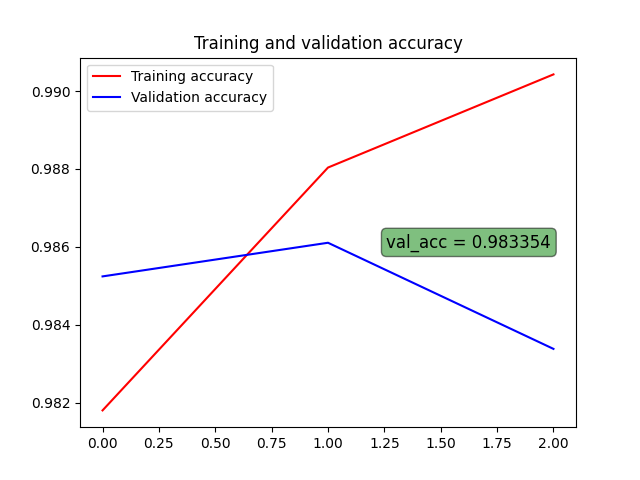
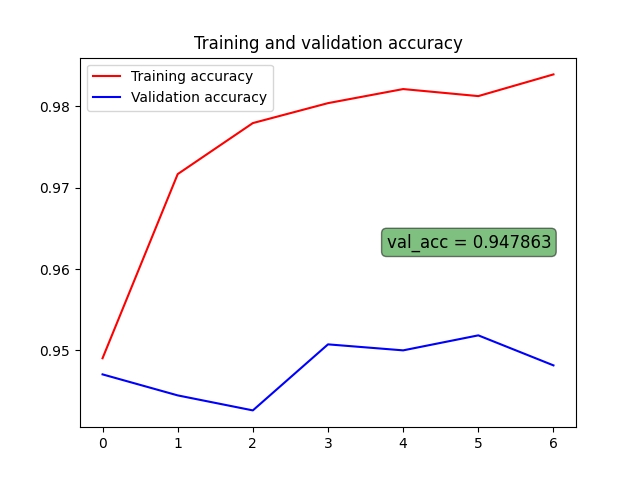
Transfer Learning bug solved, now sliding windows development initiated

diff --git a/SlidingWindowsAlgorithm/sliding_windows.py b/SlidingWindowsAlgorithm/sliding_windows.py
@@ -1,40 +1,45 @@
-from tensorflow.keras.applications.resnet50 import preprocess_input, decode_predictions
+from matplotlib import pyplot as plt
 from tensorflow.keras.preprocessing import image
 import numpy as np
 import os
 
 
-def sliding_windows(model, input_size=(150, 150)):
+def sliding_windows(model_name, model, input_size=(150, 150), show=False):
+    file = open(model_name + '.txt', 'a')
+
     for c in os.listdir('./dataset/validation'):
-        none_counter = 0
         for im in os.listdir('./dataset/validation/' + c):
             img_path = './dataset/validation/' + c + '/' + im
             img = image.load_img(img_path, target_size=input_size)
-            img_array = image.img_to_array(img)
-            img_batch = np.expand_dims(img_array, axis=0)
-            img_preprocessed = preprocess_input(img_batch)
-            prediction = model.predict(img_preprocessed)
-            prediction = prediction[0]
-            # print('Expected: [' + c[:-1] + '] ->')
-            if prediction[0]:
-                print('Prediction: [car]')
-            elif prediction[1]:
-                print('Prediction: [forbid_signal]')
-            elif prediction[2]:
-                print('Prediction: [moto]')
-            if prediction[3]:
-                print('Prediction: [none]')
-                # none_counter += 1
-            elif prediction[4]:
-                print('Prediction: [pedestrian]')
-            elif prediction[5]:
-                print('Prediction: [stop_signal]')
-            elif prediction[6]:
-                print('Prediction: [truck]')
-            elif prediction[7]:
-                print('Prediction: [warning_signal]')
-            elif prediction[8]:
-                print('Prediction: [yield_signal]')
+            img_tensor = image.img_to_array(img)
+            img_tensor = np.expand_dims(img_tensor, axis=0)
+            img_tensor /= 255
 
-        # correct = len(os.listdir('./dataset/validation/' + c)) - none_counter
-        # print('Number of ' + str(c) + ' classified correctly: [' + str(correct) + ']')
+            if show:
+                plt.imshow(img_tensor[0])
+                plt.axis('off')
+                plt.show()
+
+            prediction = model.predict(img_tensor)
+            prediction_idx = np.argmax(prediction[0])
+            file.write('Expected: [' + c[:-1] + '] -> ')
+            if prediction_idx == 0:
+                file.write('Prediction: [car]\n')
+            elif prediction_idx == 1:
+                file.write('Prediction: [forbid_signal]\n')
+            elif prediction_idx == 2:
+                file.write('Prediction: [moto]\n')
+            if prediction_idx == 3:
+                file.write('Prediction: [none]\n')
+            elif prediction_idx == 4:
+                file.write('Prediction: [pedestrian]\n')
+            elif prediction_idx == 5:
+                file.write('Prediction: [stop_signal]\n')
+            elif prediction_idx == 6:
+                file.write('Prediction: [truck]\n')
+            elif prediction_idx == 7:
+                file.write('Prediction: [warning_signal]\n')
+            elif prediction_idx == 8:
+                file.write('Prediction: [yield_signal]\n')
+
+    file.close()

diff --git a/main.py b/main.py
@@ -28,52 +28,65 @@ if __name__ == '__main__':
     dnn = None
     model_ver = None
     spe = True
+    i_size = None
 
     # Instantiate a custom DNN to train
     if args.dnn == 'MCNA':
+        i_size = (150, 150)
         dnn = MultiClassClassifierNoAugmentation()  # Instantiate HERE
         model_ver = 'v1'
     elif args.dnn == 'MCA':
         dnn = MultiClassClassifierAugmentation()
         model_ver = 'v1'
     elif args.dnn == 'MCA-v1-150x150':
-        dnn = MultiClassClassifierAugmentation(i_size=(150, 150))
+        i_size = (150, 150)
+        dnn = MultiClassClassifierAugmentation(i_size=i_size)
         model_ver = 'v1'
         spe = False
     elif args.dnn == 'MCA-v1-150x150-spe':
-        dnn = MultiClassClassifierAugmentation(i_size=(150, 150))
+        i_size = (150, 150)
+        dnn = MultiClassClassifierAugmentation(i_size=i_size)
         model_ver = 'v1'
         spe = True
     elif args.dnn == 'MCA-v1-224x224':
-        dnn = MultiClassClassifierAugmentation(i_size=(224, 224))
+        i_size = (224, 224)
+        dnn = MultiClassClassifierAugmentation(i_size=i_size)
         model_ver = 'v1'
         spe = False
     elif args.dnn == 'MCA-v1-224x224-spe':
-        dnn = MultiClassClassifierAugmentation(i_size=(224, 224))
+        i_size = (224, 224)
+        dnn = MultiClassClassifierAugmentation(i_size=i_size)
         model_ver = 'v1'
         spe = True
     elif args.dnn == 'MCA-v2-150x150':
-        dnn = MultiClassClassifierAugmentation(i_size=(150, 150))
+        i_size = (150, 150)
+        dnn = MultiClassClassifierAugmentation(i_size=i_size)
         model_ver = 'v2'
         spe = False
     elif args.dnn == 'MCA-v2-150x150-spe':
-        dnn = MultiClassClassifierAugmentation(i_size=(150, 150))
+        i_size = (150, 150)
+        dnn = MultiClassClassifierAugmentation(i_size=i_size)
         model_ver = 'v2'
         spe = True
     elif args.dnn == 'MCA-v2-224x224':
-        dnn = MultiClassClassifierAugmentation(i_size=(224, 224))
+        i_size = (224, 224)
+        dnn = MultiClassClassifierAugmentation(i_size=i_size)
         model_ver = 'v2'
         spe = False
     elif args.dnn == 'MCA-v2-224x224-spe':
-        dnn = MultiClassClassifierAugmentation(i_size=(224, 224))
+        i_size = (224, 224)
+        dnn = MultiClassClassifierAugmentation(i_size=i_size)
         model_ver = 'v2'
         spe = True
     elif args.dnn == 'VGG16':
+        i_size = (224, 224)
         dnn = MultiClassClassifierVGG16(num_classes=9)
     elif args.dnn == 'InceptionV3_TL':
         dnn = MultiClassClassifierInceptionV3TransferLearning()
+        i_size = (150, 150)
     elif args.dnn == 'ResNet50_TL':
         dnn = MultiClassClassifierResNet50TransferLearning()
+        i_size = (224, 224)
     else:
         raise ValueError('Wrong DNN type :(')
 
@@ -118,4 +131,4 @@ if __name__ == '__main__':
                 file.close()
 
         if args.sliding_windows == 'YES':
-            sliding_windows(dnn, input_size=(224, 224))
+            sliding_windows(args.dnn, dnn, input_size=i_size)

diff --git a/DeepLearningUtilities/data_preprocessing.py b/DeepLearningUtilities/data_preprocessing.py
@@ -17,6 +17,8 @@ class DataPreprocessing:
         self.none_class_path = 'D:\\DatasetTFG\\train\\none2'
         self.dataset_origin = 'D:\DatasetTFG\dataset2'
         self.dataset_dest = 'D:\DatasetTFG\dataset'
+        self.training = 'D:\\DatasetTFG\\dataset\\train\\none'
+        self.validation = 'D:\\DatasetTFG\\dataset\\validation\\none'
 
     def dataset_preparation(self):
         if not os.path.isdir('D:\\DatasetTFG\\cropped_train'):
@@ -110,34 +112,25 @@ class DataPreprocessing:
                     print(actual_images[i][:-4], 'was correctly saved into', c)
                     class_indexes[c] += 1
 
+    def reformat_none_class(self):
+        # 6000 none to training and 2000 none to validation
+        target_train = 6000
+        target_validation = 2000
+
+        # Build up a new none dataset batch for training from taking random images from source none
+        for t in range(target_train):
+            random_file = random.choice(os.listdir(self.training))
+            print(random_file)
+            img = cv2.imread(self.training + '/' + random_file)
+            cv2.imwrite(os.path.join('D:\\DatasetTFG\\nonet' + '/' + random_file), img)
+
+        for v in range(target_validation):
+            random_file = random.choice(os.listdir(self.validation))
+            print(random_file)
+            img = cv2.imread(self.validation + '/' + random_file)
+            cv2.imwrite(os.path.join('D:\\DatasetTFG\\nonev' + '/' + random_file), img)
+
 
 if __name__ == '__main__':
     dataset_preprocessor = DataPreprocessing()
-    # dataset_preprocessor.dataset_set_up()
-
-
-# zip_data_path = "../dataframe.zip"
-# zip_ref = zipfile.ZipFile(zip_data_path, 'r')
-# os.mkdir("./data_management_tmp")
-# zip_ref.extractall('./data_management_tmp')
-# zip_ref.close()
-#
-# print("Number of car images:", len(os.listdir('./data_management_tmp/RoadImages/Cars/')))
-# print("Number of truck images:", len(os.listdir('./data_management_tmp/RoadImages/Trucks/')))
-# print("Number of motorbike images:", len(os.listdir('./data_management_tmp/RoadImages/Motorbikes/')))
-# print("Number of crosswalk images:", len(os.listdir('./data_management_tmp/RoadImages/Crosswalks/')))
-#
-# try:
-#     os.mkdir("./RoadClassifier")
-#     os.mkdir("./RoadClassifier/training")
-#     os.mkdir("./RoadClassifier/validation")
-#     os.mkdir("./RoadClassifier/training/cars")
-#     os.mkdir("./RoadClassifier/training/trucks")
-#     os.mkdir("./RoadClassifier/training/motorbikes")
-#     os.mkdir("./RoadClassifier/training/crosswalks")
-#     os.mkdir("./RoadClassifier/validation/cars")
-#     os.mkdir("./RoadClassifier/validation/trucks")
-#     os.mkdir("./RoadClassifier/validation/motorbikes")
-#     os.mkdir("./RoadClassifier/validation/crosswalks")
-# except OSError:
-#     pass
+    dataset_preprocessor.reformat_none_class()

diff --git a/MultiClassClassifier/multiclass_classifier_ResNet50_transferlearning.py b/MultiClassClassifier/multiclass_classifier_ResNet50_transferlearning.py
@@ -16,7 +16,6 @@ class MultiClassClassifierResNet50TransferLearning:
         self.train_generator = None
         self.validation_generator = None
         self.model = None
-        self.local_weights_file = './inceptionv3_weights/inception_v3_weights_tf_dim_ordering_tf_kernels_notop.h5'
 
         t_len = 0
         for d in os.listdir(t_path):
@@ -76,26 +75,37 @@ class MultiClassClassifierResNet50TransferLearning:
                                      validation_data=self.validation_generator,
                                      validation_steps=self.val_length // self.batch_size,
                                      callbacks=[
-                                         ModelCheckpoint('./models2/multiclass_transferlearning_resnet50_save.h5',
+                                         ModelCheckpoint('./models_TL/multiclass_transferlearning_resnet50_saveweights.h5',
                                                          monitor='val_loss',
                                                          mode='min',
                                                          save_best_only=True,
+                                                         save_weights_only=True,
                                                          verbose=1),
                                          EarlyStopping(
                                              monitor='val_loss',
                                              mode='min',
-                                             patience=2,
-                                             min_delta=0.005,
+                                             patience=10,
+                                             min_delta=0.0005,
                                              verbose=1)
                                          ])
+
+        model_json_architecture = self.model.to_json()
+        with open('./models_TL/multiclass_transferlearning_resnet50.json', 'w') as json_file:
+            json_file.write(model_json_architecture)
 
         return history
 
     def evaluate(self):
         return self.model.evaluate(self.validation_generator)
 
+    def load_model_111(self):
+        self.model = tf.keras.models.load_model('./models_TL/multiclass_transferlearning_resnet50_save.h5')
+
     def load_model(self):
-        self.model = tf.keras.models.load_model('./models2/multiclass_transferlearning_resnet50_save.h5')
+        with open('./models_TL/multiclass_transferlearning_resnet50.json', 'r') as json_file:
+            json_loaded_model = json_file.read()
+        self.model = tf.keras.models.model_from_json(json_loaded_model)
+        self.model.load_weights('./models_TL/multiclass_transferlearning_resnet50_saveweights.h5')
 
     def predict(self, path):
         return self.model.predict(path)

diff --git a/MultiClassClassifier/multiclass_classifier_Inceptionv3_transferlearning.py b/MultiClassClassifier/multiclass_classifier_Inceptionv3_transferlearning.py
@@ -86,7 +86,7 @@ class MultiClassClassifierInceptionV3TransferLearning:
                                      validation_data=self.validation_generator,
                                      validation_steps=self.val_length // self.batch_size,
                                      callbacks=[
-                                         ModelCheckpoint('./models2/multiclass_transferlearning_inceptionv3_save.h5',
+                                         ModelCheckpoint('./models_TL/multiclass_transferlearning_inceptionv3_save.h5',
                                                          monitor='val_loss',
                                                          mode='min',
                                                          save_best_only=True,
@@ -94,7 +94,7 @@ class MultiClassClassifierInceptionV3TransferLearning:
                                          EarlyStopping(
                                              monitor='val_loss',
                                              mode='min',
-                                             patience=4,
+                                             patience=10,
                                              min_delta=0.0005,
                                              verbose=1)
                                          ])
@@ -104,7 +104,7 @@ class MultiClassClassifierInceptionV3TransferLearning:
         return self.model.evaluate(self.validation_generator)
 
     def load_model(self):
-        self.model = tf.keras.models.load_model('./models2/multiclass_transferlearning_inceptionv3_save.h5')
+        self.model = tf.keras.models.load_model('./models_TL/multiclass_transferlearning_inceptionv3_save.h5')
 
     def predict(self, path):
         return self.model.predict(path)

diff --git a/DeepLearningUtilities/metrics_analyzer.py b/DeepLearningUtilities/metrics_analyzer.py
@@ -34,8 +34,8 @@ def plot_metrics_no_legend(history):
 
 def plot_metrics_legend(history, case, v_loss, v_acc):
     if history is not None:
-        if not os.path.isdir('./metrics2/' + case):
-            os.mkdir('./metrics2/' + case)
+        if not os.path.isdir('./metrics_TL/' + case):
+            os.mkdir('./metrics_TL/' + case)
 
         accuracy = history.history['accuracy']
         val_accuracy = history.history['val_accuracy']
@@ -53,7 +53,7 @@ def plot_metrics_legend(history, case, v_loss, v_acc):
                     horizontalalignment='right',
                     verticalalignment='center', bbox=props)
         plt.legend()
-        plt.savefig('./metrics2/' + case + '/' + 'Train and Validation Accuracy MultiClassClassifier.png')
+        plt.savefig('./metrics_TL/' + case + '/' + 'Train and Validation Accuracy MultiClassClassifier.png')
 
         loss_plot, ax_loss = plt.subplots()
         plt.plot(epochs, loss, 'r', label='Training Loss')
@@ -64,4 +64,4 @@ def plot_metrics_legend(history, case, v_loss, v_acc):
                      horizontalalignment='right',
                      verticalalignment='center', bbox=props)
         plt.legend()
-        plt.savefig('./metrics2/' + case + '/' + 'Train and Validation Loss MultiClassClassifier.png')
+        plt.savefig('./metrics_TL/' + case + '/' + 'Train and Validation Loss MultiClassClassifier.png')
